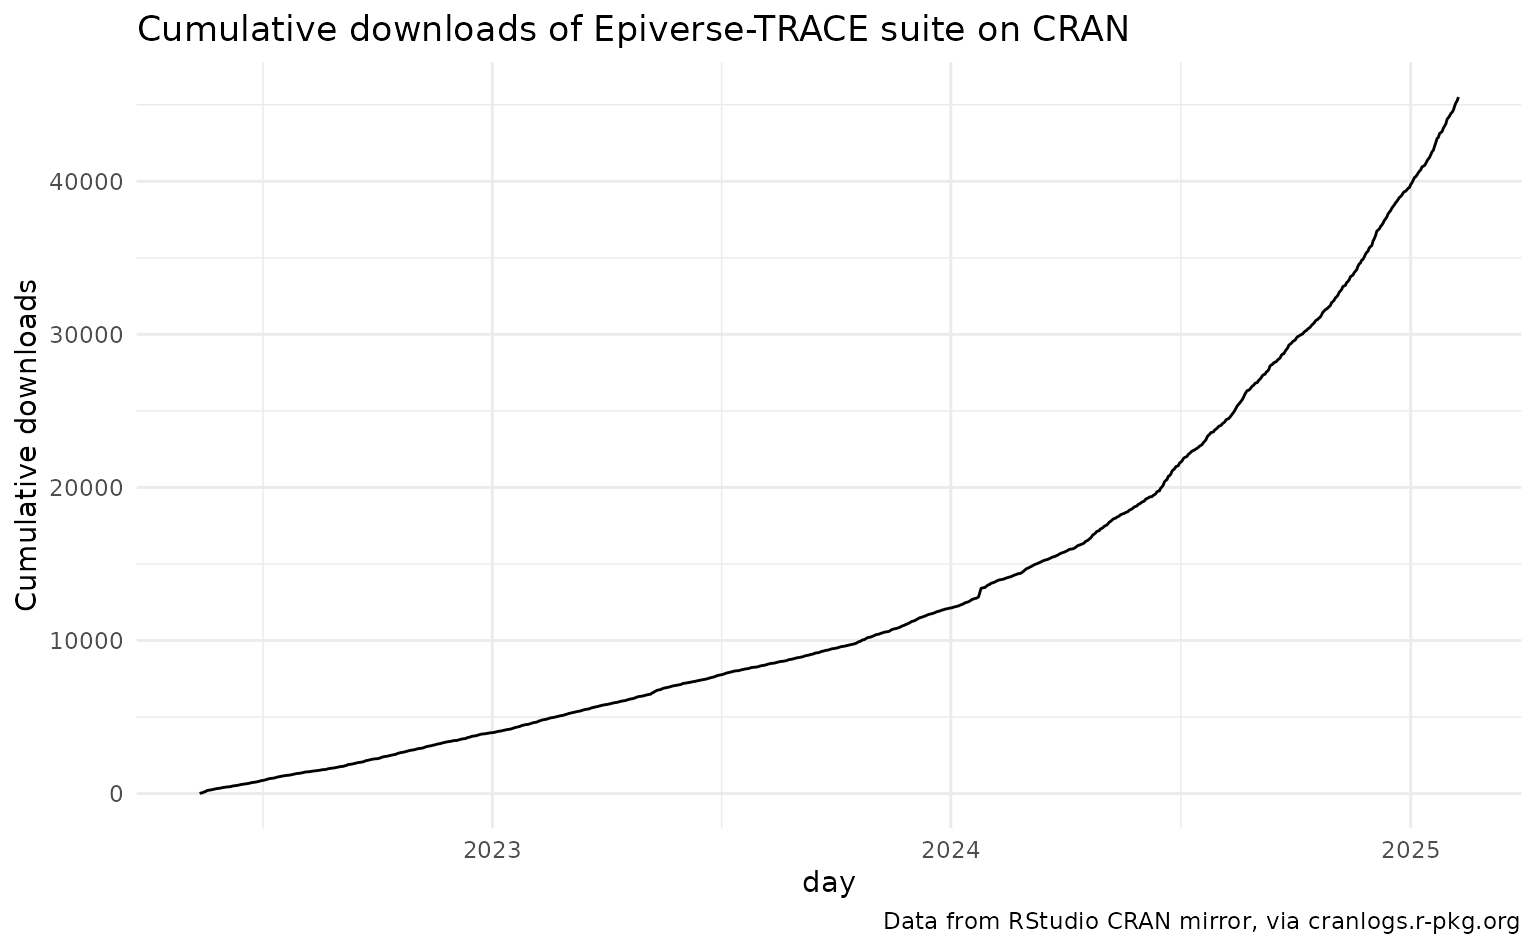
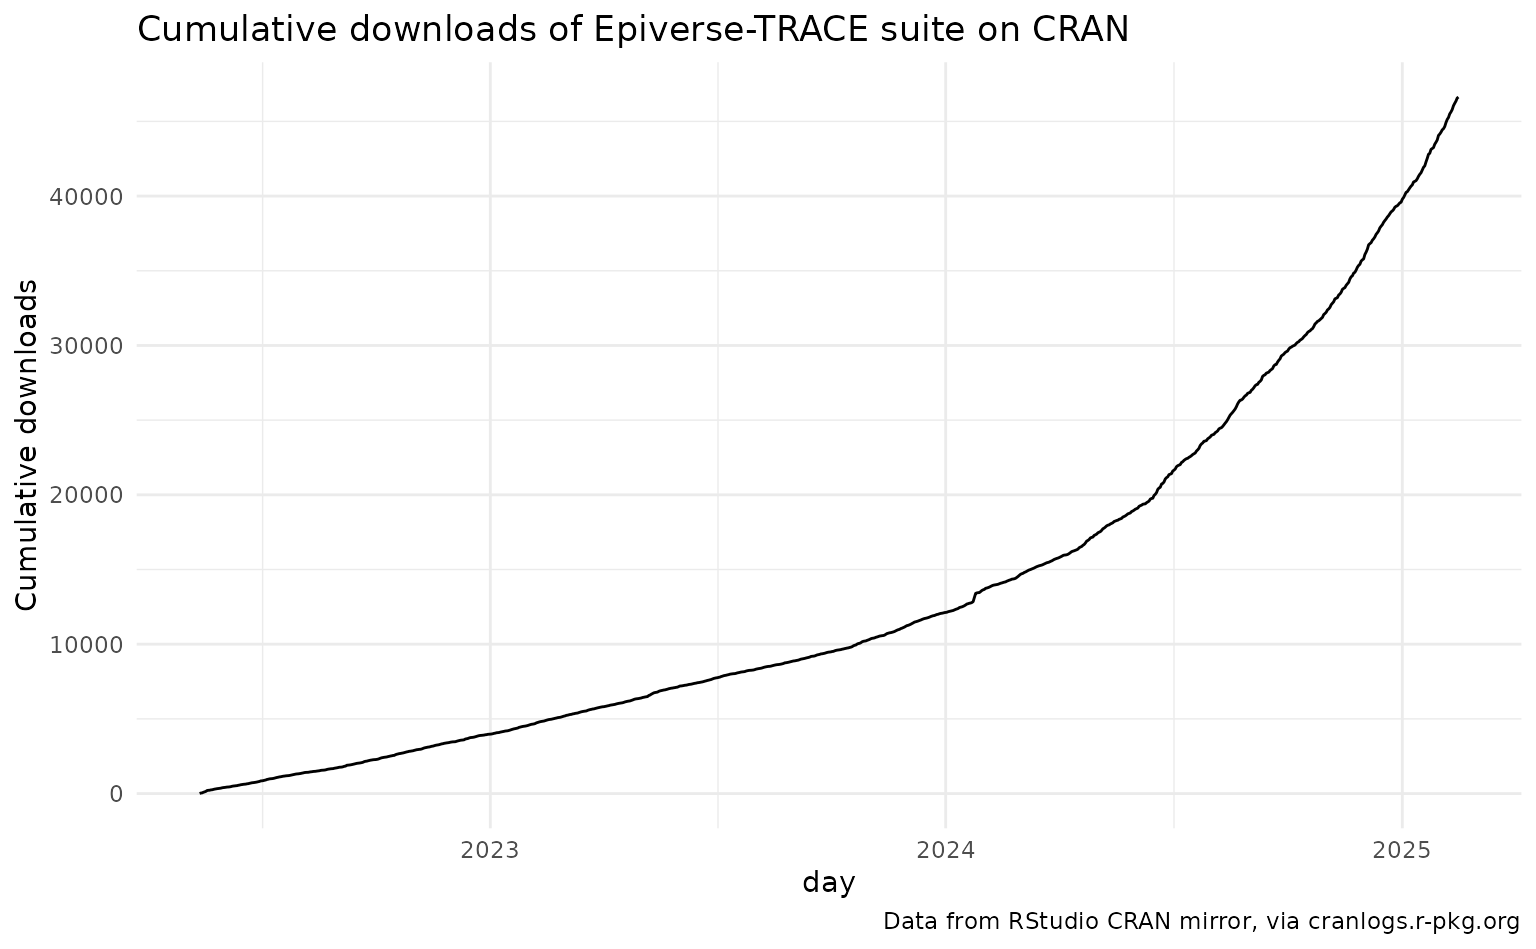
Deploying to gh-pages from @ epiverse-trace/etstats@f08f3704852f3babb91f37bc25afc70d6c6b8511 🚀

diff --git a/articles/cran-statistics.html b/articles/cran-statistics.html
@@ -74,7 +74,7 @@
 
       <h1>CRAN statistics</h1>
             
-            <h4 data-toc-skip class="date">2025-02-10</h4>
+            <h4 data-toc-skip class="date">2025-02-17</h4>
       
       <small class="dont-index">Source: <a href="https://github.com/epiverse-trace/etstats/blob/main/vignettes/cran-statistics.Rmd" class="external-link"><code>vignettes/cran-statistics.Rmd</code></a></small>
       <div class="d-none name"><code>cran-statistics.Rmd</code></div>
@@ -84,28 +84,28 @@
     
 <p>We currently have 14 Epiverse-TRACE packages on CRAN:</p>
 <ul>
-<li><a href="https://cran.r-project.org/package=simulist" class="external-link">cfr</a></li>
-<li><a href="https://cran.r-project.org/package=cleanepi" class="external-link">cleanepi</a></li>
-<li><a href="https://cran.r-project.org/package=cfr" class="external-link">ColOpenData</a></li>
-<li><a href="https://cran.r-project.org/package=ColOpenData" class="external-link">epichains</a></li>
-<li><a href="https://cran.r-project.org/package=sivirep" class="external-link">epiCo</a></li>
-<li><a href="https://cran.r-project.org/package=epiparameterDB" class="external-link">epiparameter</a></li>
-<li><a href="https://cran.r-project.org/package=epichains" class="external-link">epiparameterDB</a></li>
-<li><a href="https://cran.r-project.org/package=superspreading" class="external-link">finalsize</a></li>
-<li><a href="https://cran.r-project.org/package=epiparameter" class="external-link">linelist</a></li>
-<li><a href="https://cran.r-project.org/package=finalsize" class="external-link">numberize</a></li>
+<li><a href="https://cran.r-project.org/package=ColOpenData" class="external-link">cfr</a></li>
+<li><a href="https://cran.r-project.org/package=finalsize" class="external-link">cleanepi</a></li>
+<li><a href="https://cran.r-project.org/package=simulist" class="external-link">ColOpenData</a></li>
+<li><a href="https://cran.r-project.org/package=cleanepi" class="external-link">epichains</a></li>
+<li><a href="https://cran.r-project.org/package=cfr" class="external-link">epiCo</a></li>
+<li><a href="https://cran.r-project.org/package=sivirep" class="external-link">epiparameter</a></li>
+<li><a href="https://cran.r-project.org/package=epiparameterDB" class="external-link">epiparameterDB</a></li>
+<li><a href="https://cran.r-project.org/package=epichains" class="external-link">finalsize</a></li>
+<li><a href="https://cran.r-project.org/package=superspreading" class="external-link">linelist</a></li>
+<li><a href="https://cran.r-project.org/package=epiparameter" class="external-link">numberize</a></li>
 <li><a href="https://cran.r-project.org/package=epiCo" class="external-link">simulist</a></li>
 <li><a href="https://cran.r-project.org/package=linelist" class="external-link">sivirep</a></li>
 <li><a href="https://cran.r-project.org/package=vaccineff" class="external-link">superspreading</a></li>
 <li><a href="https://cran.r-project.org/package=numberize" class="external-link">vaccineff</a></li>
 </ul>
-<p>In total, Epiverse-TRACE packages on CRAN have been downloaded 45501
+<p>In total, Epiverse-TRACE packages on CRAN have been downloaded 46630
 times.</p>
 <p>Below is a visualization of the breakdown of this grand total over
 time.</p>
 <p><img src="cran-statistics_files/figure-html/aggregated-downloads-plot-1.png" alt="Summed cumulative downloads of Epiverse-TRACE on CRAN" width="768"></p>
 <p>And the same breakdown by package:</p>
-<p><img src="cran-statistics_files/figure-html/package-downloads-plot-1.png" alt="Cumulative downloads of Epiverse-TRACE on CRAN (simulist, cleanepi, cfr, ColOpenData, sivirep, epiparameterDB, epichains, superspreading, epiparameter, finalsize, epiCo, linelist, vaccineff, numberize)" width="768"></p>
+<p><img src="cran-statistics_files/figure-html/package-downloads-plot-1.png" alt="Cumulative downloads of Epiverse-TRACE on CRAN (ColOpenData, finalsize, simulist, cleanepi, cfr, sivirep, epiparameterDB, epichains, superspreading, epiparameter, epiCo, linelist, vaccineff, numberize)" width="768"></p>
 <table class="table">
 <thead><tr class="header">
 <th align="left">package</th>
@@ -120,105 +120,105 @@ time.</p>
 <td align="left">260</td>
 <td align="left">2881</td>
 <td align="left">3336</td>
-<td align="right">362</td>
+<td align="right">437</td>
 </tr>
 <tr class="even">
 <td align="left">linelist</td>
 <td align="left">3712</td>
 <td align="left">4898</td>
 <td align="left">8326</td>
-<td align="right">777</td>
+<td align="right">922</td>
 </tr>
 <tr class="odd">
 <td align="left">cfr</td>
 <td align="left"></td>
 <td align="left">364</td>
 <td align="left">5216</td>
-<td align="right">383</td>
+<td align="right">463</td>
 </tr>
 <tr class="even">
 <td align="left">ColOpenData</td>
 <td align="left"></td>
 <td align="left"></td>
 <td align="left">1445</td>
-<td align="right">759</td>
+<td align="right">913</td>
 </tr>
 <tr class="odd">
 <td align="left">cleanepi</td>
 <td align="left"></td>
 <td align="left"></td>
 <td align="left">2003</td>
-<td align="right">363</td>
+<td align="right">428</td>
 </tr>
 <tr class="even">
 <td align="left">epiCo</td>
 <td align="left"></td>
 <td align="left"></td>
 <td align="left">1169</td>
-<td align="right">310</td>
+<td align="right">374</td>
 </tr>
 <tr class="odd">
 <td align="left">epichains</td>
 <td align="left"></td>
 <td align="left"></td>
 <td align="left">560</td>
-<td align="right">289</td>
+<td align="right">341</td>
 </tr>
 <tr class="even">
 <td align="left">epiparameterDB</td>
 <td align="left"></td>
 <td align="left"></td>
 <td align="left">269</td>
-<td align="right">345</td>
+<td align="right">408</td>
 </tr>
 <tr class="odd">
 <td align="left">numberize</td>
 <td align="left"></td>
 <td align="left"></td>
 <td align="left">4388</td>
-<td align="right">946</td>
+<td align="right">1102</td>
 </tr>
 <tr class="even">
 <td align="left">sivirep</td>
 <td align="left"></td>
 <td align="left"></td>
 <td align="left">515</td>
-<td align="right">333</td>
+<td align="right">390</td>
 </tr>
 <tr class="odd">
 <td align="left">vaccineff</td>
 <td align="left"></td>
 <td align="left"></td>
 <td align="left">243</td>
-<td align="right">265</td>
+<td align="right">315</td>
 </tr>
 <tr class="even">
 <td align="left">epiparameter</td>
 <td align="left"></td>
 <td align="left"></td>
 <td align="left"></td>
-<td align="right">379</td>
+<td align="right">448</td>
 </tr>
 <tr class="odd">
 <td align="left">simulist</td>
 <td align="left"></td>
 <td align="left"></td>
 <td align="left"></td>
-<td align="right">258</td>
+<td align="right">310</td>
 </tr>
 <tr class="even">
 <td align="left">superspreading</td>
 <td align="left"></td>
 <td align="left"></td>
 <td align="left"></td>
-<td align="right">147</td>
+<td align="right">194</td>
 </tr>
 <tr class="odd">
 <td align="left">Total</td>
 <td align="left">3972</td>
 <td align="left">8143</td>
 <td align="left">27470</td>
-<td align="right">5916</td>
+<td align="right">7045</td>
 </tr>
 </tbody>
 </table></main>

diff --git a/articles/github-statistics.html b/articles/github-statistics.html
@@ -74,7 +74,7 @@
 
       <h1>GitHub statistics</h1>
             
-            <h4 data-toc-skip class="date">2025-02-10</h4>
+            <h4 data-toc-skip class="date">2025-02-17</h4>
       
       <small class="dont-index">Source: <a href="https://github.com/epiverse-trace/etstats/blob/main/vignettes/github-statistics.Rmd" class="external-link"><code>vignettes/github-statistics.Rmd</code></a></small>
       <div class="d-none name"><code>github-statistics.Rmd</code></div>
@@ -85,7 +85,7 @@
 <div class="section level2">
 <h2 id="github-followers">GitHub followers<a class="anchor" aria-label="anchor" href="#github-followers"></a>
 </h2>
-<p>Our Epiverse-TRACE GitHub organization currently has 185
+<p>Our Epiverse-TRACE GitHub organization currently has 187
 followers.</p>
 </div>
 <div class="section level2">
